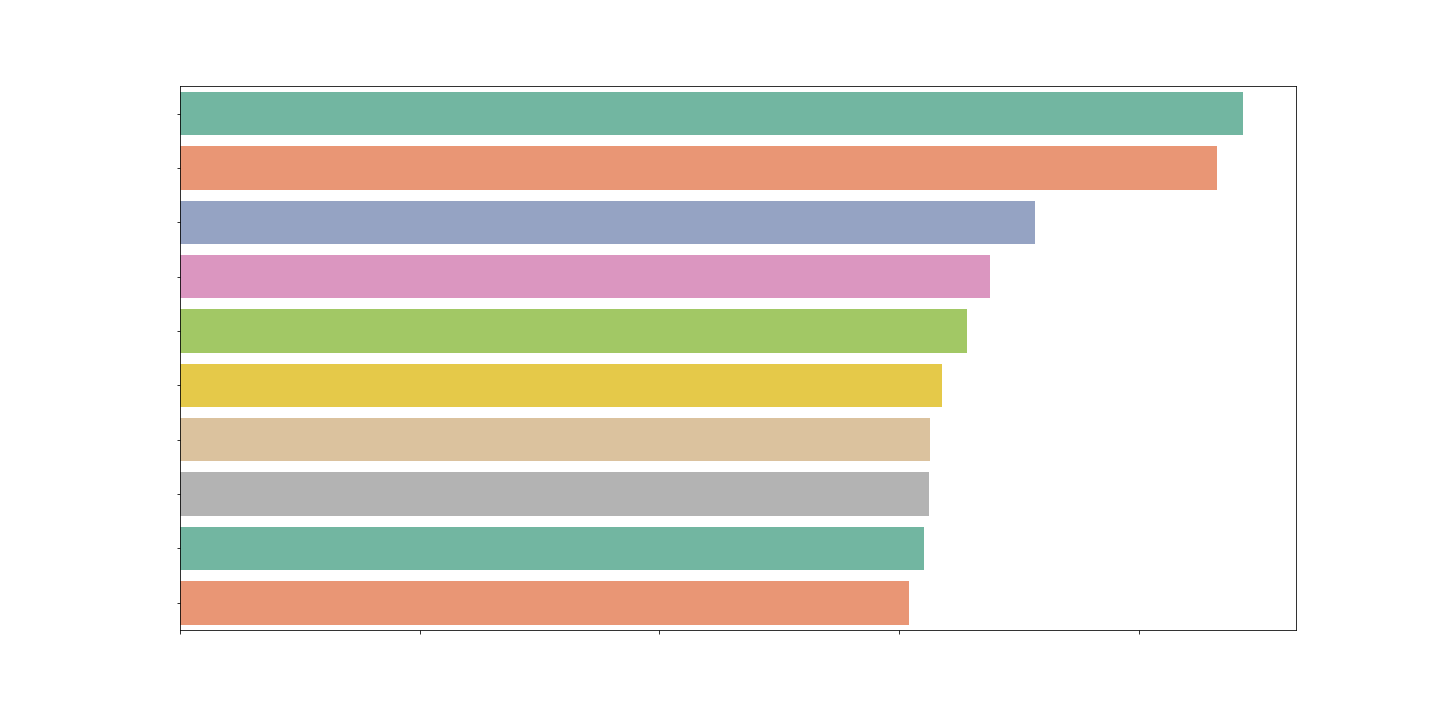
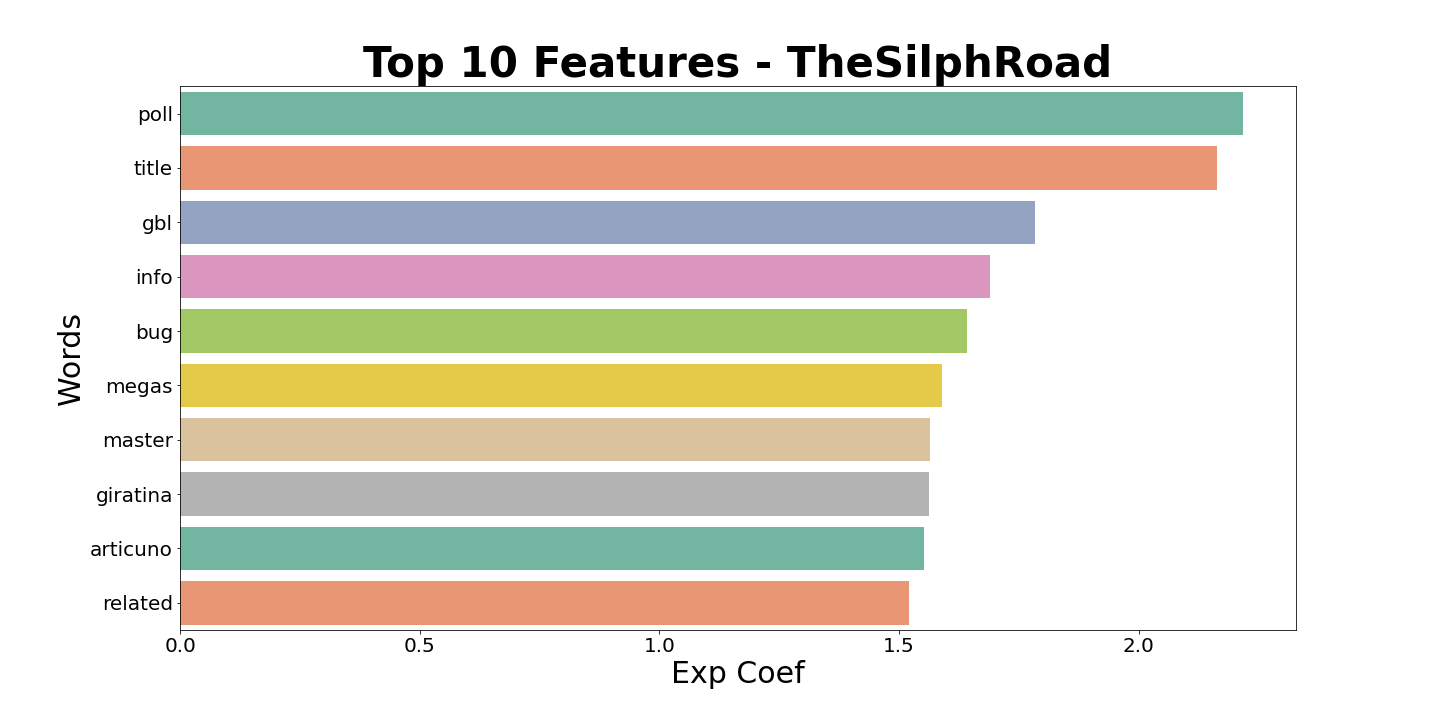
add one more visual to README

diff --git a/README.md b/README.md
@@ -65,6 +65,8 @@ For our modeling, we decided to use CountVectorizer and TFIDFVectorizer with a c
 
 While we would have wanted to get better than 72% accuracy on our models, with the two subreddits being very similar it would be very difficult to do unless we implemented much more sophisticated models. As our logistic regression model was one of our best performers and it's a model that's easy to understand and fits quickly, this is the model we decided to use for production. To understand our logistic regression model better, we decided to look at our coefficients and which words were most important in determining if a post came from TheSilphRoad subreddit. Below we can see words like gbl, bug, megas, master, giratina, and articuno being strong indicators of a post being from TheSilphRoad subreddit which is what we wanted to see. 
 
+![topfeatures](./images/top_10_features.png)
+
 ### Conclusion
 
 While we weren't able to build a model that definitively classified a post as being from TheSilphRoad or pokemongo subreddit, reaching around 72% accuracy is quite good for two subreddits that are about the same game. With more time, I would want to try building a sentiment analyzer that weighs certain words that a seasoned Pokémon Go would use more heavily, as well as conducting grid searches on more complex models. A final thing we could try to improve our models is build a custom vectorizer that weighs certain words more heavily. 
